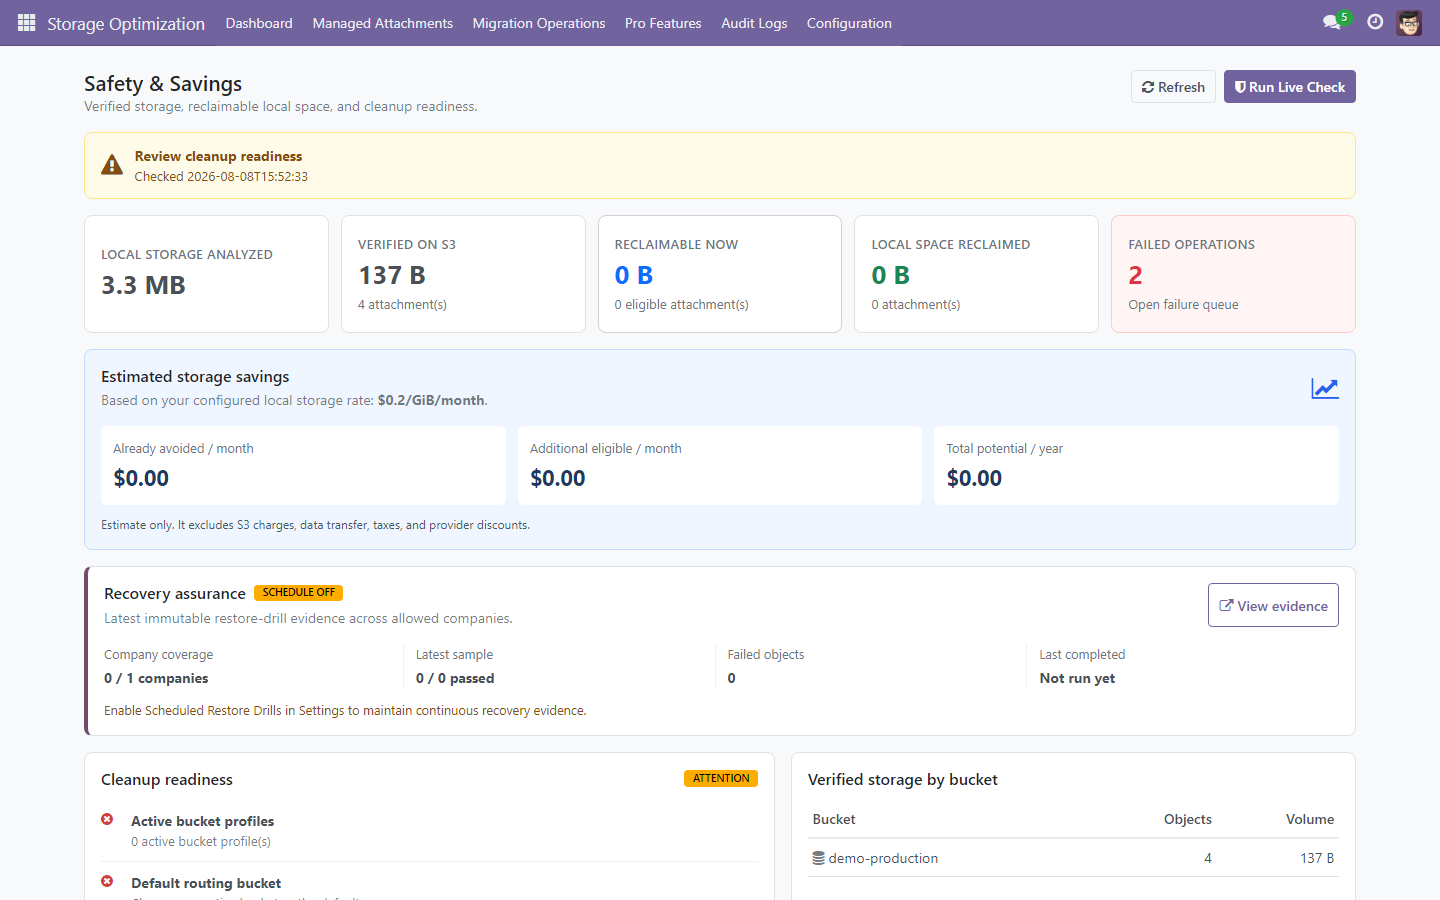
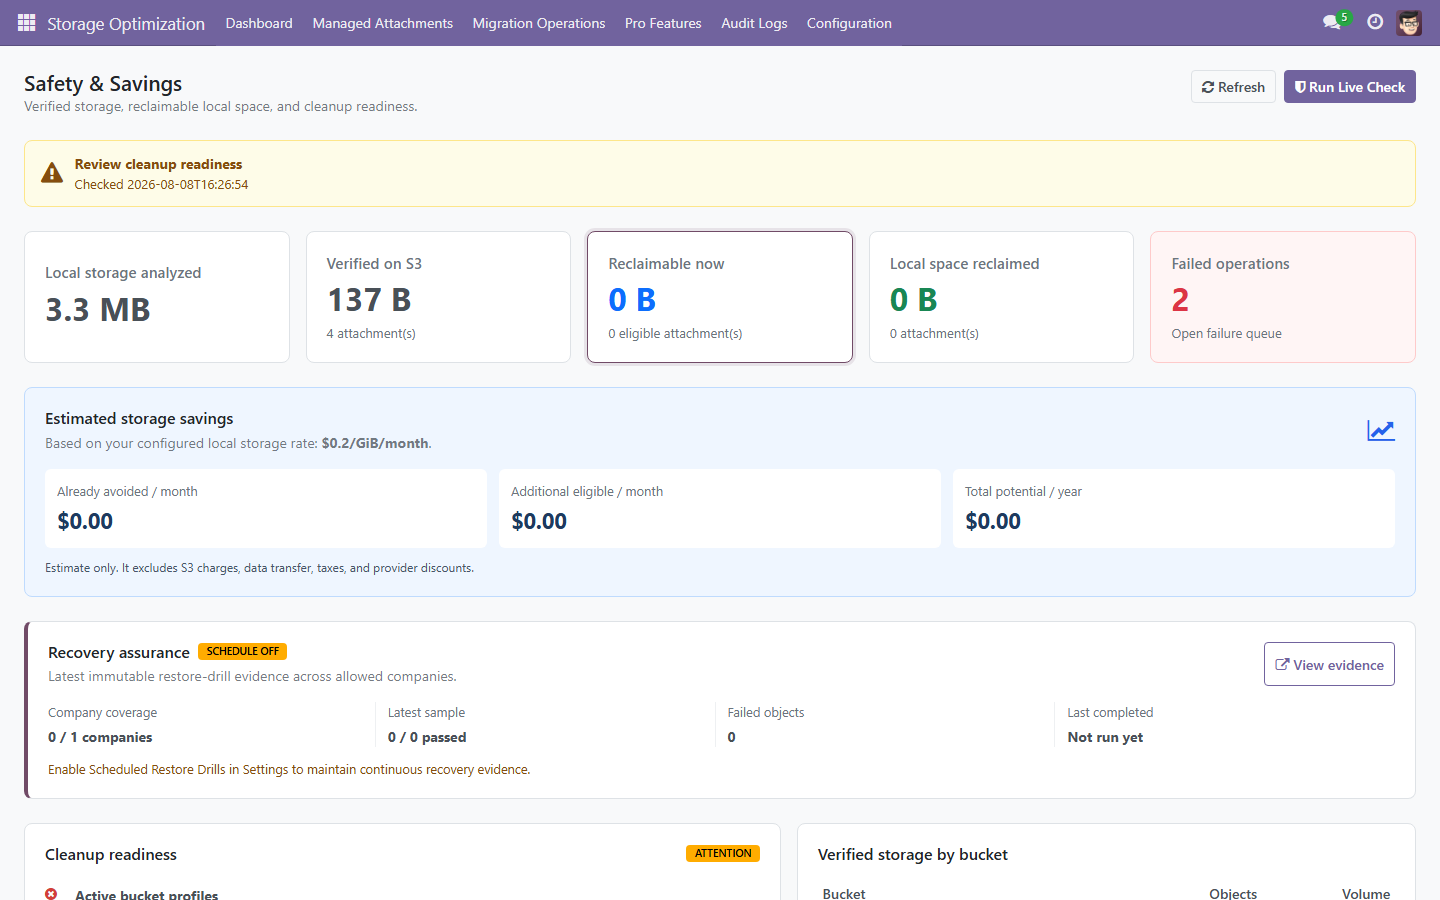
Improve Pro dashboard layout and loading state

diff --git a/attachment_optimizer_pro/static/src/components/pro_dashboard/pro_dashboard.scss b/attachment_optimizer_pro/static/src/components/pro_dashboard/pro_dashboard.scss
@@ -1,7 +1,10 @@
 .o_pro_safety_dashboard {
-    max-width: 1320px;
-    margin: 0 auto;
+    width: 100%;
+    margin: 0;
     padding: 24px;
+    box-sizing: border-box;
+    min-height: 100%;
+    position: relative;
 }
 
 .o_pro_dashboard_header,
@@ -12,7 +15,7 @@
     gap: 16px;
 }
 
-.o_pro_dashboard_header { margin-bottom: 16px; }
+.o_pro_dashboard_header { margin-bottom: 24px; }
 .o_pro_dashboard_header h2,
 .o_pro_panel_header h3 { margin: 0; }
 .o_pro_panel_header h3 { font-size: 1rem; font-weight: 600; }
@@ -25,7 +28,7 @@
     border: 1px solid;
     border-radius: 8px;
     padding: 12px 16px;
-    margin-bottom: 16px;
+    margin-bottom: 24px;
 }
 .o_pro_readiness_banner > i { font-size: 1.35rem; }
 .o_pro_ready { color: #166534; background: #f0fdf4; border-color: #bbf7d0; }
@@ -34,13 +37,13 @@
 .o_pro_kpi_grid {
     display: grid;
     grid-template-columns: repeat(5, minmax(0, 1fr));
-    gap: 12px;
-    margin-bottom: 16px;
+    gap: 16px;
+    margin-bottom: 24px;
 }
 .o_pro_kpi_card {
     min-width: 0;
-    min-height: 118px;
-    padding: 16px;
+    min-height: 124px;
+    padding: 20px;
     border: 1px solid #dee2e6;
     border-radius: 8px;
     background: var(--o-view-background-color, #fff);
@@ -50,10 +53,15 @@
     flex-direction: column;
     justify-content: center;
 }
-.o_pro_kpi_card strong { font-size: 1.6rem; line-height: 1.2; margin: 5px 0; }
+.o_pro_kpi_card strong {
+    font-size: 2rem;
+    line-height: 1.2;
+    margin: 5px 0;
+    font-variant-numeric: tabular-nums;
+}
 .o_pro_kpi_card small,
 .o_pro_kpi_label { color: var(--o-gray-600, #6c757d); }
-.o_pro_kpi_label { font-size: 0.8rem; font-weight: 600; text-transform: uppercase; letter-spacing: .03em; }
+.o_pro_kpi_label { font-size: .95rem; font-weight: 600; }
 .o_pro_kpi_action { cursor: pointer; transition: border-color .15s ease, box-shadow .15s ease; }
 .o_pro_kpi_action:hover,
 .o_pro_kpi_action:focus-visible { border-color: var(--o-brand-primary, #714b67); box-shadow: 0 0 0 3px rgba(113, 75, 103, .12); outline: 0; }
@@ -63,8 +71,8 @@
 .o_pro_kpi_danger strong { color: #dc3545; }
 
 .o_pro_savings_panel {
-    margin-bottom: 16px;
-    padding: 16px;
+    margin-bottom: 24px;
+    padding: 20px;
     border: 1px solid #bfdbfe;
     border-radius: 8px;
     background: #eff6ff;
@@ -94,8 +102,8 @@
 .o_pro_savings_metrics strong { display: block; margin-top: 4px; font-size: 1.35rem; }
 .o_pro_savings_note { color: #475569; font-size: .75rem; }
 .o_pro_assurance_panel {
-    margin-bottom: 16px;
-    padding: 16px;
+    margin-bottom: 24px;
+    padding: 20px;
     border: 1px solid #dee2e6;
     border-left: 4px solid var(--o-brand-primary, #714b67);
     border-radius: 8px;
@@ -122,12 +130,26 @@
 .o_pro_assurance_hint { margin-top: 12px; color: #854d0e; font-size: .8rem; }
 .o_pro_assurance_error { color: #b42318; }
 .o_pro_dashboard_columns { display: grid; grid-template-columns: 1.1fr .9fr; gap: 16px; }
-.o_pro_panel { background: var(--o-view-background-color, #fff); border: 1px solid #dee2e6; border-radius: 8px; padding: 16px; }
+.o_pro_panel { background: var(--o-view-background-color, #fff); border: 1px solid #dee2e6; border-radius: 8px; padding: 20px; }
 .o_pro_panel_header { align-items: center; margin-bottom: 12px; }
 .o_pro_check_list { display: flex; flex-direction: column; }
 .o_pro_check { display: grid; grid-template-columns: 20px 1fr; gap: 10px; padding: 10px 0; border-top: 1px solid #eef0f2; }
 .o_pro_check:first-child { border-top: 0; }
 .o_pro_check > i { margin-top: 2px; }
+
+.o_pro_dashboard_overlay {
+    position: absolute;
+    inset: 0;
+    z-index: 10;
+    display: flex;
+    flex-direction: column;
+    align-items: center;
+    justify-content: center;
+    min-height: 320px;
+    background: var(--o-view-background-color, #fff);
+    color: var(--o-gray-600, #6c757d);
+}
+.o_pro_dashboard_overlay p { margin: 12px 0 0; }
 
 @media (max-width: 1100px) {
     .o_pro_kpi_grid { grid-template-columns: repeat(3, minmax(0, 1fr)); }

diff --git a/attachment_optimizer_pro/static/description/index.html b/attachment_optimizer_pro/static/description/index.html
@@ -96,6 +96,6 @@ For subsequent modules, update content inside sections only. Do not alter sectio
     </div>
 
     <!-- FOOTER -->
-    <div style="border:1px solid #e2e8f0; border-radius:16px; padding:32px 24px; margin:40px 0 16px; text-align:center;"><div style="font-size:14px; font-weight:700; color:#1e293b; text-transform:uppercase;">Attachment Optimizer Pro</div><p style="font-size:13px; color:#64748b; line-height:1.6;">Automated, verified S3-compatible attachment lifecycle management for Odoo.</p><div style="display:inline-block; border:2px solid #4f46e5; color:#4f46e5; font-weight:700; font-size:13px; padding:10px 28px; border-radius:8px;">US$49 · One-Time · No Subscription</div><p style="font-size:11px; color:#94a3b8; margin:20px 0 0;">Version 17.0.1.0.16 · Built and maintained by FoxPink</p></div>
+    <div style="border:1px solid #e2e8f0; border-radius:16px; padding:32px 24px; margin:40px 0 16px; text-align:center;"><div style="font-size:14px; font-weight:700; color:#1e293b; text-transform:uppercase;">Attachment Optimizer Pro</div><p style="font-size:13px; color:#64748b; line-height:1.6;">Automated, verified S3-compatible attachment lifecycle management for Odoo.</p><div style="display:inline-block; border:2px solid #4f46e5; color:#4f46e5; font-weight:700; font-size:13px; padding:10px 28px; border-radius:8px;">US$49 · One-Time · No Subscription</div><p style="font-size:11px; color:#94a3b8; margin:20px 0 0;">Version 17.0.1.0.17 · Built and maintained by FoxPink</p></div>
   </div>
 </section>

diff --git a/attachment_optimizer_pro/__manifest__.py b/attachment_optimizer_pro/__manifest__.py
@@ -1,6 +1,6 @@
 {
     "name": "Attachment Optimizer Pro",
-    "version": "17.0.1.0.16",
+    "version": "17.0.1.0.17",
     "category": "Storage",
     "summary": "Automation, cleanup, routing and lifecycle for S3-compatible attachment storage.",
     "description": """

diff --git a/README.md b/README.md
@@ -8,7 +8,7 @@ Only update product content, version, links, compatibility status, screenshots, 
 
 ![Attachment Optimizer Pro](attachment_optimizer_pro/static/description/preview.png)
 
-**Version:** 17.0.1.0.16 -- **License:** OPL-1 -- **Publisher:** FoxPink -- Maintained for **Odoo 17.0**
+**Version:** 17.0.1.0.17 -- **License:** OPL-1 -- **Publisher:** FoxPink -- Maintained for **Odoo 17.0**
 
 ---
 
